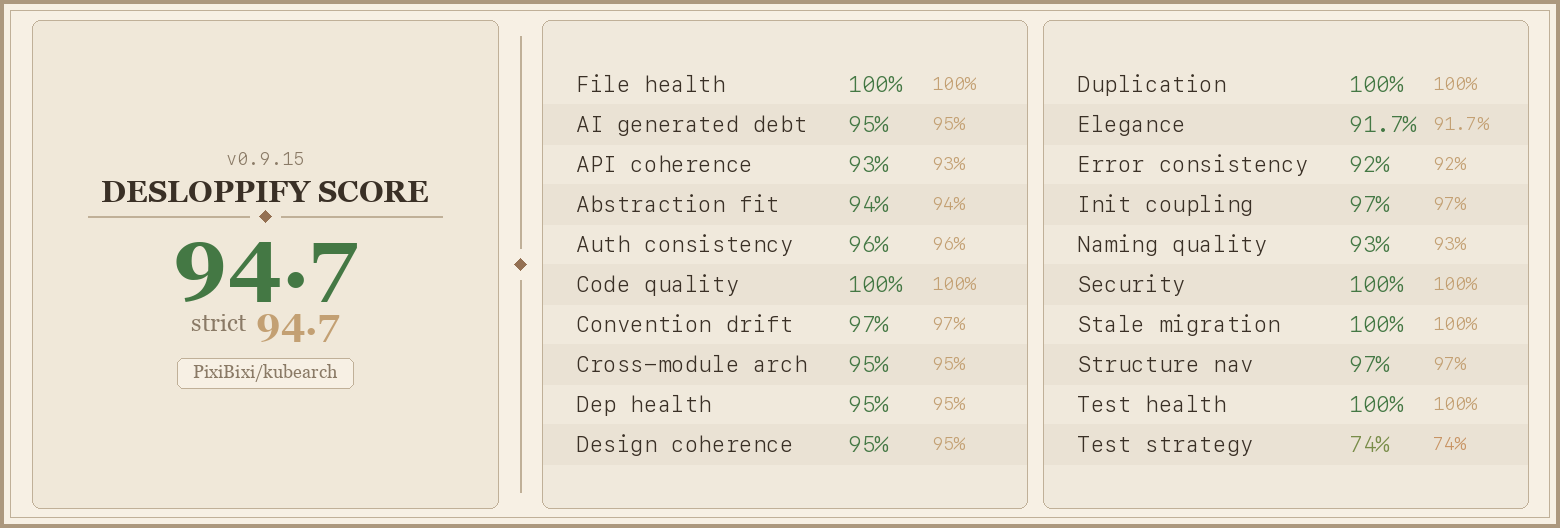
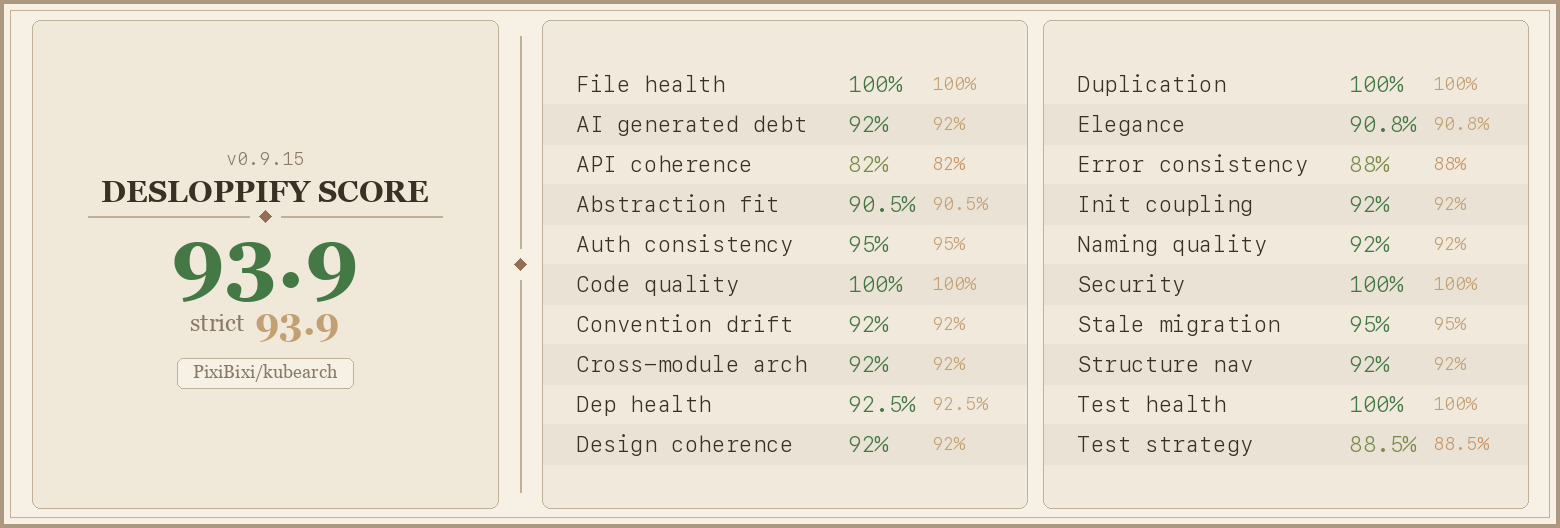
docs: add desloppify code quality scorecard to README

diff --git a/README.md b/README.md
@@ -4,6 +4,8 @@
 ![License](https://img.shields.io/github/license/PixiBixi/kubearch)
 ![Docker](https://img.shields.io/badge/ghcr.io-PixiBixi%2Fkubearch-blue)
 
+<img src="scorecard.png" width="100%">
+
 **kubearch** is a Kubernetes Prometheus exporter that reports the CPU architectures supported by every container image running in your cluster — without pulling image layers.
 
 It reads each pod's image references, fetches the OCI manifest list from the registry, and exposes the supported platforms as Prometheus metrics. Useful for tracking multi-arch readiness, identifying images blocking arm64 migrations, or auditing mixed-architecture clusters.
